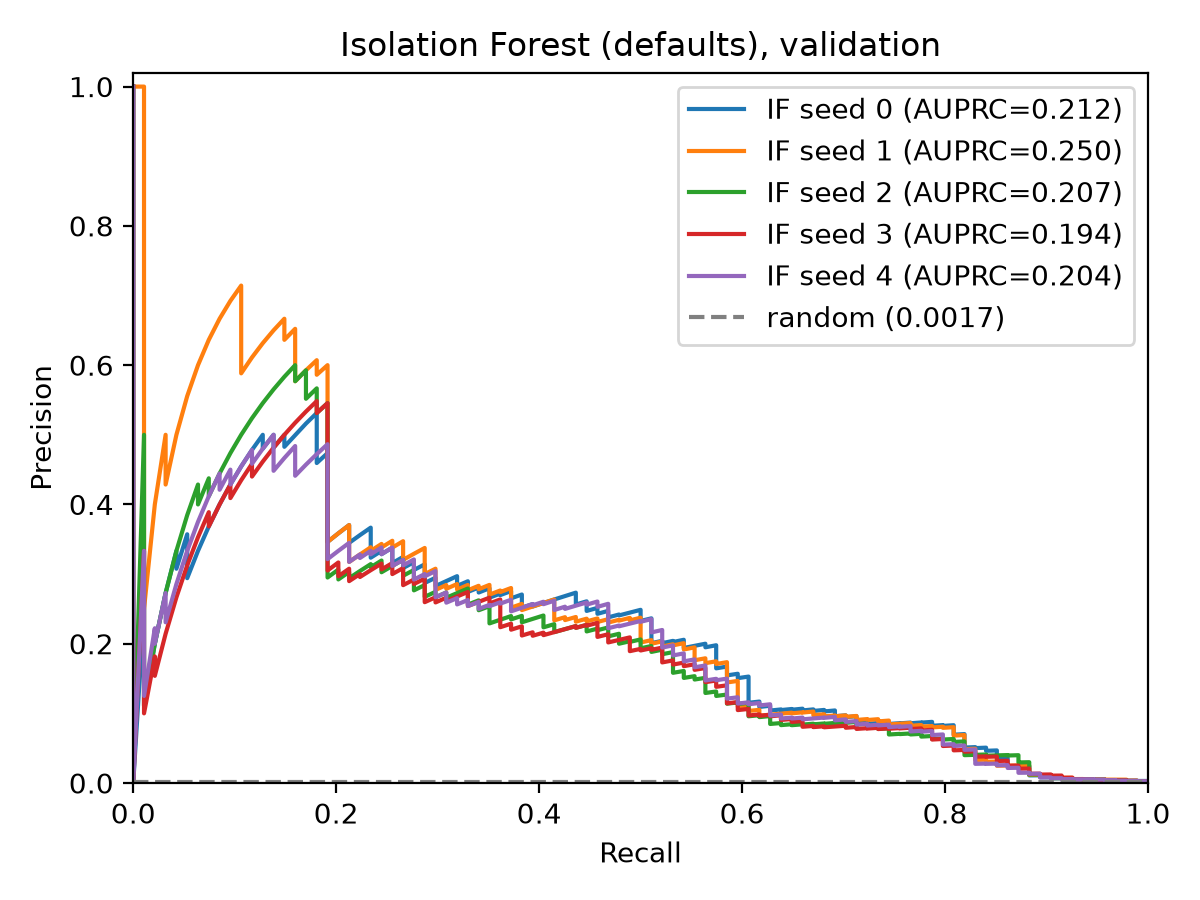
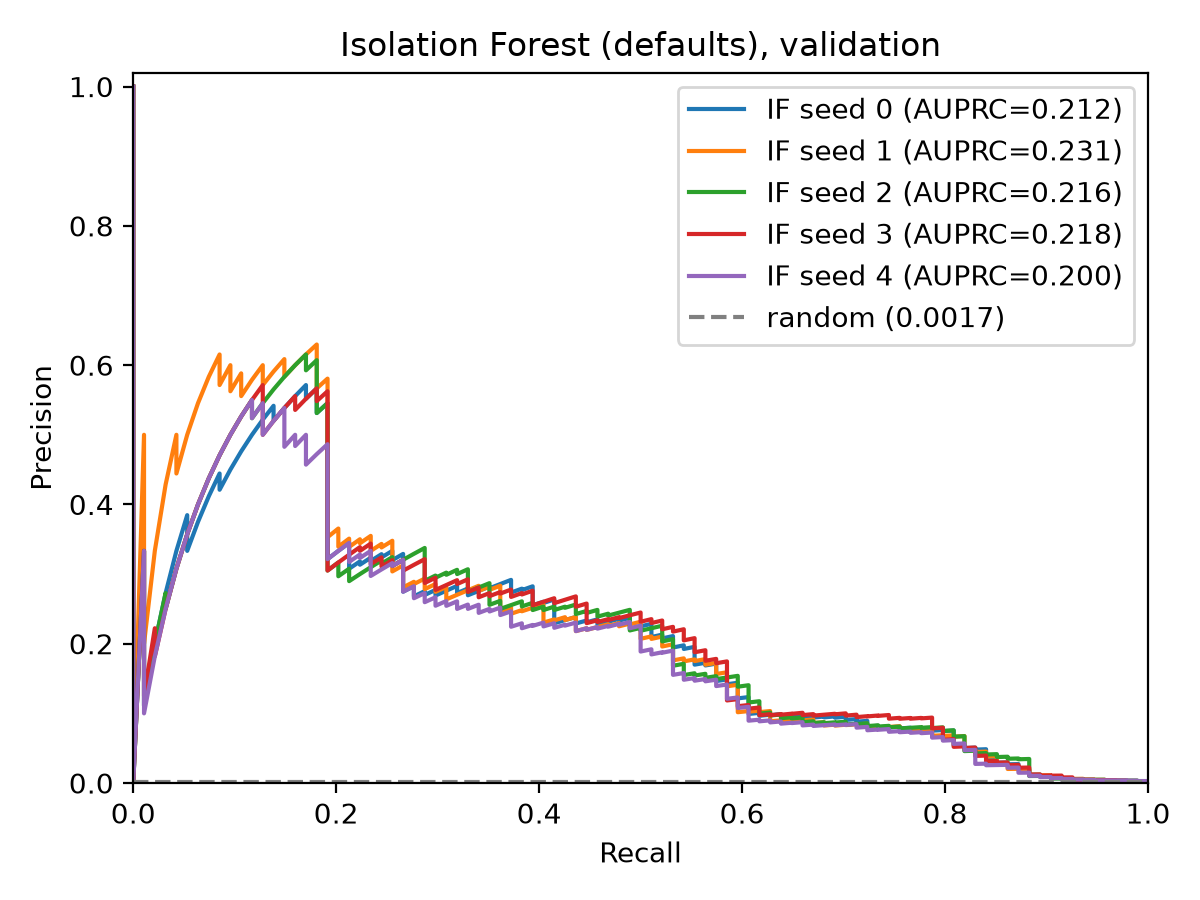
Change default ks to (50, n_pos, 200); update README and IF results
- eval_utils.evaluate/results_table default ks = (50, "n_pos", 200)
- run_if_default.py: n_estimators=200
- README metrics line; refreshed IF validation results and PR figure

Changed region(s): [[0.0925, 0.0933, 0.2775, 0.8089], [0.2775, 0.56, 0.8633, 0.8711], [0.8633, 0.1556, 0.925, 0.3111]]

diff --git a/src/eval_utils.py b/src/eval_utils.py
@@ -64,10 +64,10 @@ def precision_at_k(y_true, scores, k):
     return _top_k(y_true, scores, k).mean()
 
 
-def evaluate(y_true, scores, ks=(100, 200, "n_pos")):
+def evaluate(y_true, scores, ks=(50, "n_pos", 200)):
     """
     Main entry point. Returns a dict, e.g.
-      {'AUPRC': 0.71, 'recall@100': 0.52, 'recall@200': 0.78, 'recall@n_pos': 0.65,
+      {'AUPRC': 0.71, 'recall@50': 0.40, 'recall@n_pos': 0.65, 'recall@200': 0.78,
        'baseline_AUPRC': 0.0017}
     k = "n_pos" means k = number of frauds in this set.
     """
@@ -80,7 +80,7 @@ def evaluate(y_true, scores, ks=(100, 200, "n_pos")):
     return out
 
 
-def results_table(y_true, scores_by_model, ks=(100, 200, "n_pos")):
+def results_table(y_true, scores_by_model, ks=(50, "n_pos", 200)):
     """scores_by_model: {'IF': scores, 'kNN': scores, ...} -> pandas DataFrame."""
     import pandas as pd
     rows = {name: evaluate(y_true, s, ks) for name, s in scores_by_model.items()}

diff --git a/src/run_if_default.py b/src/run_if_default.py
@@ -28,7 +28,7 @@ def run(X_train, X_val, y_val, seeds=SEEDS):
     """Fit IF per seed; return (per-seed metrics DataFrame, {seed: scores})."""
     rows, scores = [], {}
     for sd in seeds:
-        m = IsolationForest(n_estimators=100, max_samples=10000, random_state=sd)
+        m = IsolationForest(n_estimators=200, max_samples=10000, random_state=sd)
         m.fit(X_train)
         scores[sd] = -m.score_samples(X_val)          # higher = more anomalous
         rows.append(evaluate(y_val, scores[sd]))

diff --git a/tests/test_eval_utils.py b/tests/test_eval_utils.py
@@ -47,7 +47,7 @@ def test_evaluate_hand_computed():
 def test_default_ks_keys():
     y = np.array([0, 1, 0, 1])
     assert list(evaluate(y, np.arange(4.0))) == [
-        "AUPRC", "recall@100", "recall@200", "recall@n_pos", "baseline_AUPRC"]
+        "AUPRC", "recall@50", "recall@n_pos", "recall@200", "baseline_AUPRC"]
 
 
 def test_higher_score_means_more_anomalous():

diff --git a/README.md b/README.md
@@ -5,7 +5,7 @@ detector on the credit card fraud dataset and compare it with three baselines:
 kNN distance, PCA reconstruction error, and logistic regression (supervised reference).
 
 Because fraud is extremely rare (about 0.17% of transactions), accuracy is misleading
-(predicting "all normal" already gives about 99.8%). We evaluate with **AUPRC** and **recall@k**.
+(predicting "all normal" already gives about 99.8%). We evaluate with **AUPRC** and **recall@k** (k = 50, k = number of frauds, and k = 200).
 
 ## Team
 
